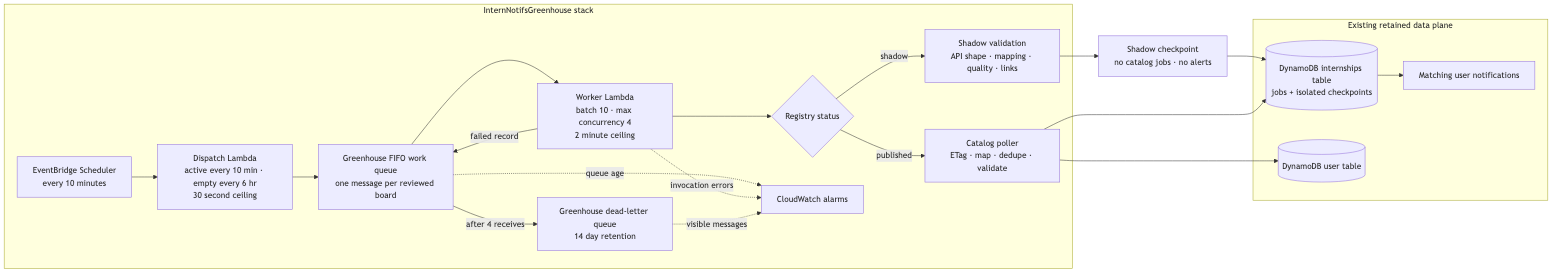
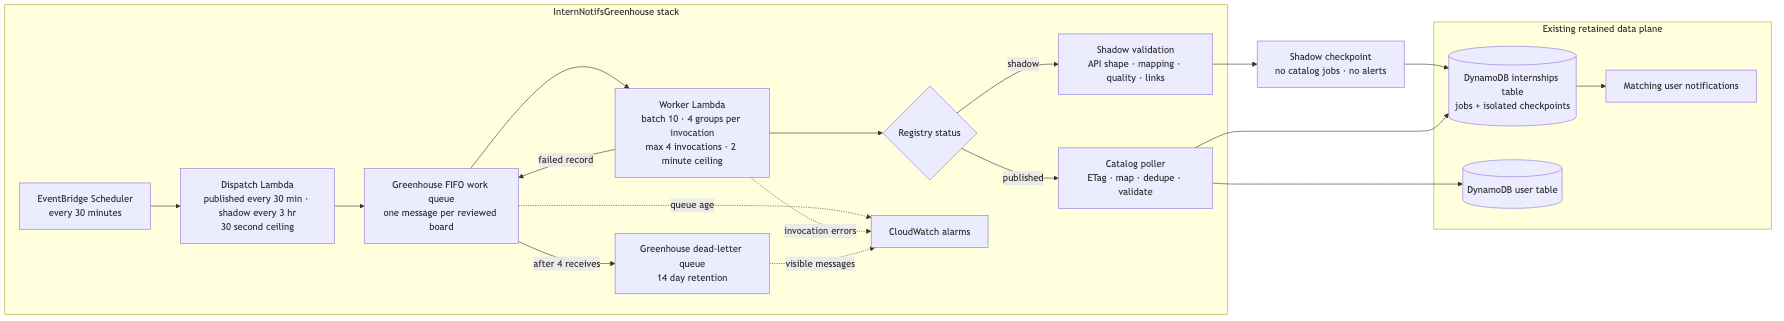
Increase source polling cadence

diff --git a/src/source-poll-cadence.ts b/src/source-poll-cadence.ts
@@ -2,12 +2,13 @@ import type { SourceCheckpoint, SourceHealth } from './types.js';
 
 /** The single cadence contract used by provider dispatchers and their stacks. */
 export const SOURCE_POLL_CADENCE = {
-  activeIntervalMs: 60 * 60 * 1000,
-  quietIntervalMs: 6 * 60 * 60 * 1000,
+  publishedIntervalMs: 30 * 60 * 1000,
+  shadowIntervalMs: 3 * 60 * 60 * 1000,
   schedules: {
-    greenhouse: 'cron(12 * * * ? *)',
-    lever: 'cron(22 * * * ? *)',
-    ashby: 'cron(32 * * * ? *)',
+    github: 'cron(2/10 * * * ? *)',
+    greenhouse: 'cron(12,42 * * * ? *)',
+    lever: 'cron(22,52 * * * ? *)',
+    ashby: 'cron(2,32 * * * ? *)',
   },
 } as const;
 
@@ -27,11 +28,11 @@ function timestamp(value: string | undefined): number | undefined {
 }
 
 /**
- * Quiet sources use the last completed attempt when available, falling back to
- * their last trusted snapshot. This makes a delayed or missed hourly run catch
- * up instead of requiring the scheduler to hit a particular modulo window.
+ * Shadow sources use the last completed attempt when available, falling back
+ * to their last trusted snapshot. This makes a delayed or missed scheduler run
+ * catch up instead of requiring an exact modulo window.
  */
-export function isQuietSourceDue(
+function isShadowSourceDue(
   sourceId: string,
   checkpoint: SourceCheckpoint | undefined,
   now: Date,
@@ -41,24 +42,25 @@ export function isQuietSourceDue(
     ?? timestamp(health?.lastSuccessAt)
     ?? timestamp(checkpoint?.lastSuccessAt);
   if (lastPollAt !== undefined) {
-    // Workers record completion slightly after the fixed-minute dispatcher
-    // invocation. Compare hourly scheduler windows so that normal processing
-    // latency does not defer the sixth invocation to the seventh hour.
-    const elapsedWindows = Math.floor(now.getTime() / SOURCE_POLL_CADENCE.activeIntervalMs)
-      - Math.floor(lastPollAt / SOURCE_POLL_CADENCE.activeIntervalMs);
-    return elapsedWindows >= SOURCE_POLL_CADENCE.quietIntervalMs / SOURCE_POLL_CADENCE.activeIntervalMs;
+    // Workers record completion slightly after the dispatcher invocation.
+    // Compare scheduler windows so normal processing latency does not defer a
+    // three-hour poll to the following half-hour run.
+    const elapsedWindows = Math.floor(now.getTime() / SOURCE_POLL_CADENCE.publishedIntervalMs)
+      - Math.floor(lastPollAt / SOURCE_POLL_CADENCE.publishedIntervalMs);
+    return elapsedWindows >= SOURCE_POLL_CADENCE.shadowIntervalMs / SOURCE_POLL_CADENCE.publishedIntervalMs;
   }
 
   // A source with state but no usable timestamp must recover immediately. Only
-  // brand-new quiet sources are spread across the first six hourly runs.
+  // brand-new shadow sources are spread across the first six dispatcher runs.
   if (checkpoint || health) return true;
-  const buckets = SOURCE_POLL_CADENCE.quietIntervalMs / SOURCE_POLL_CADENCE.activeIntervalMs;
-  const currentWindow = Math.floor(now.getTime() / SOURCE_POLL_CADENCE.activeIntervalMs);
+  const buckets = SOURCE_POLL_CADENCE.shadowIntervalMs / SOURCE_POLL_CADENCE.publishedIntervalMs;
+  const currentWindow = Math.floor(now.getTime() / SOURCE_POLL_CADENCE.publishedIntervalMs);
   return currentWindow % buckets === stableSourceBucket(sourceId, buckets);
 }
 
 export function isProviderSourceDue(
   sourceId: string,
+  sourceStatus: 'published' | 'shadow',
   checkpoint: SourceCheckpoint | undefined,
   now: Date,
   health?: SourceHealth,
@@ -66,6 +68,6 @@ export function isProviderSourceDue(
   if (health?.sourceStatus === 'paused') return false;
   const backoffUntil = timestamp(health?.backoffUntil);
   if (backoffUntil !== undefined && backoffUntil > now.getTime()) return false;
-  if (health?.pollTier !== 'quiet' && (!checkpoint || (checkpoint.lastRowCount ?? 0) > 0)) return true;
-  return isQuietSourceDue(sourceId, checkpoint, now, health);
+  if (sourceStatus === 'published') return true;
+  return isShadowSourceDue(sourceId, checkpoint, now, health);
 }

diff --git a/test/lever-queue.test.ts b/test/lever-queue.test.ts
@@ -54,21 +54,27 @@ describe('Lever queue dispatch', () => {
     });
   });
 
-  it('uses elapsed quiet cadence on the deployed hourly schedule and catches up after a missed run', () => {
+  it('polls shadow boards every three hours on the deployed half-hour schedule', () => {
     const firstScheduledAt = Date.parse('2026-07-30T00:22:00.000Z');
     const lastSuccessAt = new Date(firstScheduledAt + 60_000).toISOString();
     const checkpoint = { sourceId: `shadow-${shadowSource.id}`, successfulFetches: 1, lastRowCount: 0, lastSuccessAt };
-    const hourlyRuns = Array.from({ length: 7 }, (_, hour) => new Date(firstScheduledAt + hour * LEVER_POLL_INTERVAL_MS));
-    expect(hourlyRuns.slice(0, 6).every((now) => !isLeverSourceDue(shadowSource, checkpoint, now))).toBe(true);
-    expect(isLeverSourceDue(shadowSource, checkpoint, hourlyRuns[6]!)).toBe(true);
+    const scheduledRuns = Array.from({ length: 7 }, (_, window) => new Date(firstScheduledAt + window * LEVER_POLL_INTERVAL_MS));
+    expect(scheduledRuns.slice(0, 6).every((now) => !isLeverSourceDue(shadowSource, checkpoint, now))).toBe(true);
+    expect(isLeverSourceDue(shadowSource, checkpoint, scheduledRuns[6]!)).toBe(true);
     expect(isLeverSourceDue(shadowSource, checkpoint, new Date(firstScheduledAt + 10 * LEVER_POLL_INTERVAL_MS))).toBe(true);
-    expect(isLeverSourceDue(shadowSource, { ...checkpoint, lastRowCount: 1 }, hourlyRuns[0]!)).toBe(true);
+  });
+
+  it('polls published boards every half hour even when they are quiet', () => {
+    const published: ReviewedLeverSource = { ...shadowSource, status: 'published' };
+    const checkpoint = { sourceId: published.id, successfulFetches: 1, lastRowCount: 0, lastSuccessAt: scheduledAt };
+    expect(isLeverSourceDue(published, checkpoint, new Date(Date.parse(scheduledAt) + LEVER_POLL_INTERVAL_MS))).toBe(true);
   });
 
   it('honors durable pause controls and opens a freshness incident after a stale board resumes', async () => {
+    const published: ReviewedLeverSource = { ...shadowSource, status: 'published' };
     const store = new MemoryInternshipStore();
     await store.putCheckpoint({
-      sourceId: `shadow-${shadowSource.id}`,
+      sourceId: published.id,
       successfulFetches: 1,
       lastRowCount: 1,
       lastSuccessAt: '2026-07-30T11:00:00.000Z',
@@ -87,7 +93,7 @@ describe('Lever queue dispatch', () => {
     const commands: SendMessageBatchCommand[] = [];
     expect(await dispatchLeverBoards({
       queueUrl: 'https://sqs.us-east-1.amazonaws.com/123/lever.fifo',
-      sources: [shadowSource],
+      sources: [published],
       checkpointReader: store,
       now: () => new Date(scheduledAt),
       client: { async send(command) { commands.push(command); return {}; } },
@@ -101,7 +107,7 @@ describe('Lever queue dispatch', () => {
     });
     expect(await dispatchLeverBoards({
       queueUrl: 'https://sqs.us-east-1.amazonaws.com/123/lever.fifo',
-      sources: [shadowSource],
+      sources: [published],
       checkpointReader: store,
       now: () => new Date('2026-07-30T13:00:00.000Z'),
       client: { async send(command) { commands.push(command); return {}; } },

diff --git a/test/stack.test.ts b/test/stack.test.ts
@@ -38,7 +38,7 @@ describe('CDK stack', () => {
   it('enables a DST-aware morning digest schedule', () => {
     const app = new cdk.App(); const stack = new InternNotifsStack(app, 'Schedules', { githubRepository: 'owner/repo', emailAddress: 'me@example.com' });
     Template.fromStack(stack).hasResourceProperties('AWS::Scheduler::Schedule', {
-      ScheduleExpression: 'cron(2 * * * ? *)',
+      ScheduleExpression: SOURCE_POLL_CADENCE.schedules.github,
       ScheduleExpressionTimezone: 'UTC',
       State: 'ENABLED',
       FlexibleTimeWindow: { Mode: 'OFF' },
@@ -82,7 +82,7 @@ describe('CDK stack', () => {
     });
     template.resourceCountIs('AWS::CloudWatch::Alarm', 7);
   });
-  it('queues Greenhouse boards hourly with bounded worker concurrency', () => {
+  it('queues Greenhouse boards every half hour with bounded worker concurrency', () => {
     const app = new cdk.App(); const stack = new GreenhouseMonitoringStack(app, 'Greenhouse', { internshipsTableName: 'internships', usersTableName: 'users', emailAddress: 'me@example.com' }); const template = Template.fromStack(stack);
     template.resourceCountIs('AWS::SQS::Queue', 3);
     template.hasResourceProperties('AWS::Scheduler::Schedule', { ScheduleExpression: SOURCE_POLL_CADENCE.schedules.greenhouse, State: 'ENABLED' });
@@ -99,7 +99,7 @@ describe('CDK stack', () => {
     template.hasResourceProperties('AWS::Lambda::Function', { Timeout: 120 });
     expect(snapshotTemplate(template.toJSON())).toMatchSnapshot();
   });
-  it('queues Lever boards hourly with bounded worker concurrency', () => {
+  it('queues Lever boards every half hour with bounded worker concurrency', () => {
     const app = new cdk.App(); const stack = new LeverMonitoringStack(app, 'Lever', { internshipsTableName: 'internships', usersTableName: 'users' }); const template = Template.fromStack(stack);
     template.resourceCountIs('AWS::SQS::Queue', 3);
     template.hasResourceProperties('AWS::Scheduler::Schedule', { ScheduleExpression: SOURCE_POLL_CADENCE.schedules.lever, State: 'ENABLED' });
@@ -116,7 +116,7 @@ describe('CDK stack', () => {
     });
     expect(snapshotTemplate(template.toJSON())).toMatchSnapshot();
   });
-  it('queues Ashby boards on a staggered hourly schedule with bounded concurrency', () => {
+  it('queues Ashby boards on a staggered half-hour schedule with bounded concurrency', () => {
     const app = new cdk.App(); const stack = new AshbyMonitoringStack(app, 'Ashby', { internshipsTableName: 'internships', usersTableName: 'users' }); const template = Template.fromStack(stack);
     template.resourceCountIs('AWS::SQS::Queue', 3);
     template.hasResourceProperties('AWS::Scheduler::Schedule', { ScheduleExpression: SOURCE_POLL_CADENCE.schedules.ashby, State: 'ENABLED' });

diff --git a/infra/intern-notifs-stack.ts b/infra/intern-notifs-stack.ts
@@ -13,6 +13,7 @@ import * as ses from 'aws-cdk-lib/aws-ses';
 import * as s3 from 'aws-cdk-lib/aws-s3';
 import * as sqs from 'aws-cdk-lib/aws-sqs';
 import type { Construct } from 'constructs';
+import { SOURCE_POLL_CADENCE } from '../src/source-poll-cadence.js';
 
 export interface InternNotifsStackProps extends cdk.StackProps { githubRepository: string; githubOwnerId?: string; githubRepositoryId?: string; emailAddress: string; existingOidcProviderArn?: string; }
 export class InternNotifsStack extends cdk.Stack {
@@ -86,9 +87,9 @@ export class InternNotifsStack extends cdk.Stack {
     const schedulerRole = new iam.Role(this, 'SchedulerInvokeRole', { assumedBy: new iam.ServicePrincipal('scheduler.amazonaws.com') });
     notifier.grantInvoke(schedulerRole); deadLetterQueue.grantSendMessages(schedulerRole);
     const target = (command: 'poll' | 'digest' | 'audit-catalog-indexes', maximumRetryAttempts = 2): scheduler.CfnSchedule.TargetProperty => ({ arn: notifier.functionArn, roleArn: schedulerRole.roleArn, input: JSON.stringify({ command }), deadLetterConfig: { arn: deadLetterQueue.queueArn }, retryPolicy: { maximumEventAgeInSeconds: 3600, maximumRetryAttempts } });
-    // The next hourly poll is the safe retry boundary for this expensive task;
+    // The next ten-minute poll is the safe retry boundary for this task;
     // Scheduler retries previously tripled the cost of repeated timeouts.
-    new scheduler.CfnSchedule(this, 'PollSchedule', { flexibleTimeWindow: { mode: 'OFF' }, scheduleExpression: 'cron(2 * * * ? *)', scheduleExpressionTimezone: 'UTC', state: 'ENABLED', target: target('poll', 0) });
+    new scheduler.CfnSchedule(this, 'PollSchedule', { flexibleTimeWindow: { mode: 'OFF' }, scheduleExpression: SOURCE_POLL_CADENCE.schedules.github, scheduleExpressionTimezone: 'UTC', state: 'ENABLED', target: target('poll', 0) });
     new scheduler.CfnSchedule(this, 'CatalogIndexAuditSchedule', { flexibleTimeWindow: { mode: 'OFF' }, scheduleExpression: 'cron(42 8 * * ? *)', scheduleExpressionTimezone: 'UTC', state: 'ENABLED', target: target('audit-catalog-indexes') });
     // The poll Lambda publishes these as embedded metrics, so a source that
     // stops succeeding surfaces without anyone reading logs. Greenhouse boards

diff --git a/test/greenhouse-queue.test.ts b/test/greenhouse-queue.test.ts
@@ -54,15 +54,20 @@ describe('Greenhouse queue dispatch', () => {
     })).rejects.toThrow('throttled');
   });
 
-  it('uses elapsed quiet cadence on the deployed hourly schedule and catches up after a missed run', () => {
+  it('polls shadow boards every three hours on the deployed half-hour schedule', () => {
     const firstScheduledAt = Date.parse('2026-07-29T00:12:00.000Z');
     const lastSuccessAt = new Date(firstScheduledAt + 60_000).toISOString();
     const checkpoint = { sourceId: `shadow-${acmeSource.id}`, successfulFetches: 1, lastRowCount: 0, lastSuccessAt };
-    const hourlyRuns = Array.from({ length: 7 }, (_, hour) => new Date(firstScheduledAt + hour * GREENHOUSE_POLL_INTERVAL_MS));
-    expect(hourlyRuns.slice(0, 6).every((now) => !isGreenhouseSourceDue(acmeSource, checkpoint, now))).toBe(true);
-    expect(isGreenhouseSourceDue(acmeSource, checkpoint, hourlyRuns[6]!)).toBe(true);
+    const scheduledRuns = Array.from({ length: 7 }, (_, window) => new Date(firstScheduledAt + window * GREENHOUSE_POLL_INTERVAL_MS));
+    expect(scheduledRuns.slice(0, 6).every((now) => !isGreenhouseSourceDue(acmeSource, checkpoint, now))).toBe(true);
+    expect(isGreenhouseSourceDue(acmeSource, checkpoint, scheduledRuns[6]!)).toBe(true);
     expect(isGreenhouseSourceDue(acmeSource, checkpoint, new Date(firstScheduledAt + 10 * GREENHOUSE_POLL_INTERVAL_MS))).toBe(true);
-    expect(isGreenhouseSourceDue(acmeSource, { ...checkpoint, lastRowCount: 1 }, hourlyRuns[0]!)).toBe(true);
+  });
+
+  it('polls published boards every half hour even when they are quiet', () => {
+    const published: ReviewedGreenhouseSource = { ...acmeSource, status: 'published' };
+    const checkpoint = { sourceId: published.id, successfulFetches: 1, lastRowCount: 0, lastSuccessAt: scheduledAt };
+    expect(isGreenhouseSourceDue(published, checkpoint, new Date(Date.parse(scheduledAt) + GREENHOUSE_POLL_INTERVAL_MS))).toBe(true);
   });
 });
 

diff --git a/test/ashby-queue.test.ts b/test/ashby-queue.test.ts
@@ -34,15 +34,20 @@ describe('Ashby queue dispatch', () => {
     });
   });
 
-  it('uses elapsed quiet cadence on the deployed hourly schedule and catches up after a missed run', () => {
+  it('polls shadow boards every three hours on the deployed half-hour schedule', () => {
     const firstScheduledAt = Date.parse('2026-08-09T00:32:00.000Z');
     const lastSuccessAt = new Date(firstScheduledAt + 60_000).toISOString();
     const checkpoint = { sourceId: `shadow-${shadowSource.id}`, successfulFetches: 1, lastRowCount: 0, lastSuccessAt };
-    const hourlyRuns = Array.from({ length: 7 }, (_, hour) => new Date(firstScheduledAt + hour * ASHBY_POLL_INTERVAL_MS));
-    expect(hourlyRuns.slice(0, 6).every((now) => !isAshbySourceDue(shadowSource, checkpoint, now))).toBe(true);
-    expect(isAshbySourceDue(shadowSource, checkpoint, hourlyRuns[6]!)).toBe(true);
+    const scheduledRuns = Array.from({ length: 7 }, (_, window) => new Date(firstScheduledAt + window * ASHBY_POLL_INTERVAL_MS));
+    expect(scheduledRuns.slice(0, 6).every((now) => !isAshbySourceDue(shadowSource, checkpoint, now))).toBe(true);
+    expect(isAshbySourceDue(shadowSource, checkpoint, scheduledRuns[6]!)).toBe(true);
     expect(isAshbySourceDue(shadowSource, checkpoint, new Date(firstScheduledAt + 10 * ASHBY_POLL_INTERVAL_MS))).toBe(true);
-    expect(isAshbySourceDue(shadowSource, { ...checkpoint, lastRowCount: 1 }, hourlyRuns[0]!)).toBe(true);
+  });
+
+  it('polls published boards every half hour even when they are quiet', () => {
+    const published: ReviewedAshbySource = { ...shadowSource, status: 'published' };
+    const checkpoint = { sourceId: published.id, successfulFetches: 1, lastRowCount: 0, lastSuccessAt: scheduledAt };
+    expect(isAshbySourceDue(published, checkpoint, new Date(Date.parse(scheduledAt) + ASHBY_POLL_INTERVAL_MS))).toBe(true);
   });
 });
 

diff --git a/src/ashby-dispatch.ts b/src/ashby-dispatch.ts
@@ -6,8 +6,8 @@ import { isProviderSourceDue, SOURCE_POLL_CADENCE } from './source-poll-cadence.
 import type { SourceCheckpoint, SourceHealth } from './types.js';
 
 export const ASHBY_DISPATCH_BATCH_SIZE = 10;
-export const ASHBY_POLL_INTERVAL_MS = SOURCE_POLL_CADENCE.activeIntervalMs;
-export const ASHBY_INACTIVE_POLL_INTERVAL_MS = SOURCE_POLL_CADENCE.quietIntervalMs;
+export const ASHBY_POLL_INTERVAL_MS = SOURCE_POLL_CADENCE.publishedIntervalMs;
+export const ASHBY_SHADOW_POLL_INTERVAL_MS = SOURCE_POLL_CADENCE.shadowIntervalMs;
 
 export interface AshbyWorkMessage {
   version: 1;
@@ -63,7 +63,7 @@ export function isAshbySourceDue(
   now: Date,
   health?: SourceHealth,
 ): boolean {
-  return isProviderSourceDue(source.id, checkpoint, now, health);
+  return isProviderSourceDue(source.id, source.status, checkpoint, now, health);
 }
 
 function emitFreshness(source: ReviewedAshbySource, health: SourceHealth | undefined, checkpoint: SourceCheckpoint | undefined, now: Date) {
@@ -97,9 +97,9 @@ async function recordFreshnessIncident(
   reader: CheckpointReader,
   now: Date,
 ) {
-  // Quiet/empty boards intentionally run every six hours and are not held to
-  // the active hourly freshness objective.
-  if (health?.sourceStatus === 'paused' || health?.pollTier === 'quiet' || (checkpoint && (checkpoint.lastRowCount ?? 0) === 0)) return;
+  // Shadow boards intentionally run every three hours and are not held to the
+  // published-source freshness objective.
+  if (source.status === 'shadow' || health?.sourceStatus === 'paused') return;
   const freshnessMinutes = emitFreshness(source, health, checkpoint, now);
   if (!health || freshnessMinutes < 90 || !reader.putSourceHealth) return;
   const severity = 'high' as const;

diff --git a/src/lever-dispatch.ts b/src/lever-dispatch.ts
@@ -6,8 +6,8 @@ import { isProviderSourceDue, SOURCE_POLL_CADENCE } from './source-poll-cadence.
 import type { SourceCheckpoint, SourceHealth } from './types.js';
 
 export const LEVER_DISPATCH_BATCH_SIZE = 10;
-export const LEVER_POLL_INTERVAL_MS = SOURCE_POLL_CADENCE.activeIntervalMs;
-export const LEVER_INACTIVE_POLL_INTERVAL_MS = SOURCE_POLL_CADENCE.quietIntervalMs;
+export const LEVER_POLL_INTERVAL_MS = SOURCE_POLL_CADENCE.publishedIntervalMs;
+export const LEVER_SHADOW_POLL_INTERVAL_MS = SOURCE_POLL_CADENCE.shadowIntervalMs;
 
 export interface LeverWorkMessage {
   version: 1;
@@ -64,7 +64,7 @@ export function isLeverSourceDue(
   now: Date,
   health?: SourceHealth,
 ): boolean {
-  return isProviderSourceDue(source.id, checkpoint, now, health);
+  return isProviderSourceDue(source.id, source.status, checkpoint, now, health);
 }
 
 function emitFreshness(source: ReviewedLeverSource, health: SourceHealth | undefined, checkpoint: SourceCheckpoint | undefined, now: Date) {
@@ -98,9 +98,9 @@ async function recordFreshnessIncident(
   reader: CheckpointReader,
   now: Date,
 ) {
-  // Quiet/empty boards intentionally run every six hours and are not held to
-  // the active hourly freshness objective.
-  if (health?.sourceStatus === 'paused' || health?.pollTier === 'quiet' || (checkpoint && (checkpoint.lastRowCount ?? 0) === 0)) return;
+  // Shadow boards intentionally run every three hours and are not held to the
+  // published-source freshness objective.
+  if (source.status === 'shadow' || health?.sourceStatus === 'paused') return;
   const freshnessMinutes = emitFreshness(source, health, checkpoint, now);
   if (!health || freshnessMinutes < 90 || !reader.putSourceHealth) return;
   const severity = 'high' as const;

diff --git a/src/greenhouse-dispatch.ts b/src/greenhouse-dispatch.ts
@@ -5,8 +5,8 @@ import { isProviderSourceDue, SOURCE_POLL_CADENCE } from './source-poll-cadence.
 import type { SourceCheckpoint, SourceHealth } from './types.js';
 
 export const GREENHOUSE_DISPATCH_BATCH_SIZE = 10;
-export const GREENHOUSE_POLL_INTERVAL_MS = SOURCE_POLL_CADENCE.activeIntervalMs;
-export const GREENHOUSE_INACTIVE_POLL_INTERVAL_MS = SOURCE_POLL_CADENCE.quietIntervalMs;
+export const GREENHOUSE_POLL_INTERVAL_MS = SOURCE_POLL_CADENCE.publishedIntervalMs;
+export const GREENHOUSE_SHADOW_POLL_INTERVAL_MS = SOURCE_POLL_CADENCE.shadowIntervalMs;
 
 export interface GreenhouseWorkMessage {
   version: 1;
@@ -53,7 +53,7 @@ export function isGreenhouseSourceDue(
   now: Date,
   health?: SourceHealth,
 ): boolean {
-  return isProviderSourceDue(source.id, checkpoint, now, health);
+  return isProviderSourceDue(source.id, source.status, checkpoint, now, health);
 }
 
 async function dueSources(

diff --git a/test/source-operations.test.ts b/test/source-operations.test.ts
@@ -100,7 +100,7 @@ describe('shared source operations', () => {
     expect(body.checklist).toMatchObject({ period: '2026-07', completed: 0, total: 8, complete: false });
   });
 
-  it('uses the quiet cadence when classifying source freshness', async () => {
+  it('retains the quiet classification for published source health', async () => {
     const store = new MemoryInternshipStore();
     const source = reviewedGreenhouseSources.find((candidate) => candidate.status === 'published')!;
     await store.putCheckpoint({

diff --git a/docs/product-roadmap.md b/docs/product-roadmap.md
@@ -45,12 +45,12 @@
 - [x] Audit 25 representative employers through the GitHub Markdown ingestion and poller pipeline.
 - [x] Add a provider-neutral company-coverage snapshot, public search API, and responsive web disclosure seeded from live internship evidence and reviewed ATS registries.
 - [x] Implement the Greenhouse source adapter, admission gates, deterministic fixtures, and live contract tests.
-- [x] Add the SQS-backed Greenhouse shadow/published runner with hourly active polling, adaptive inactive polling, bounded concurrency, isolated retries, alarms, and a quiet promotion baseline.
+- [x] Add the SQS-backed Greenhouse shadow/published runner with thirty-minute published polling, three-hour shadow polling, bounded per-board concurrency, isolated retries, alarms, and a quiet promotion baseline.
 - [x] Publish the 166-board API-responsive Greenhouse inventory with current board identities, observed host allowlists, per-source quiet baselines, and ownership-review status.
 - [x] Add a private operations dashboard for all official Greenhouse sources with per-run volume, withheld rows, redacted diagnostics, queue/DLQ and alarm status, plus deterministic quarantine and recovery.
 - [ ] Add the Greenhouse batch re-probe and post-publication ownership-review workflow described in [`greenhouse/registry-expansion-plan.md`](greenhouse/registry-expansion-plan.md).
 - [x] Implement Lever source adapter, ETag checkpoints, technical-role mapping, and deterministic fixtures for Palantir, PlusAI, Hermeus, and Xsolla.
-- [x] Add the SQS-backed Lever shadow/published runner with hourly active polling, adaptive inactive polling, bounded concurrency, isolated retries, alarms, and quiet promotion.
+- [x] Add the SQS-backed Lever shadow/published runner with thirty-minute published polling, three-hour shadow polling, bounded per-board concurrency, isolated retries, alarms, and quiet promotion.
 - [x] Standardize Greenhouse, Lever, general Markdown, and Quant Markdown behind neutral complete snapshots, shared processing, stable source occurrences, two-success closure reconciliation, deterministic outbox IDs, and durable source health.
 - [x] Complete Lever monitoring with shadow and published health, regional metrics, freshness incidents, bounded backoff, shared operator controls, dashboards, and recovery runbooks.
 - [x] Add Ashby URL-derived discovery, metadata-only public probing, first-party ownership evidence, deterministic admission/re-verification gates, weekly candidate-ledger upload, and 35 reviewed shadow boards.

diff --git a/docs/pipeline-observability-plan.md b/docs/pipeline-observability-plan.md
@@ -112,24 +112,21 @@ store so a pause or cadence change does not require a release.
 
 ### Priority policy
 
-Every top-tier employer with a confirmed, enabled provider board starts on the
-`priority` tier. It is due every five minutes; the source scheduler must keep
-its successful-fetch freshness at or below 15 minutes except during an active
-provider backoff. The top-tier list identifies employers, not board IDs: an
-employer without a confirmed Greenhouse (or other provider) board produces an
-`unknown_board` setup item and makes no speculative network calls.
+Every confirmed, enabled published provider board uses the same thirty-minute
+discovery objective. Active and quiet describe current listing state without
+changing that cadence. The top-tier list identifies employers, not board IDs:
+an employer without a confirmed provider board produces an `unknown_board`
+setup item and makes no speculative network calls.
 
-| Tier | Eligible source | Target schedule | Freshness target |
+| Status | Eligible source | Target schedule | Freshness target |
 | --- | --- | --- | --- |
-| `priority` | Every confirmed top-tier employer board | Every 5 minutes | At most 15 minutes |
-| `normal` | Other active, tracked employer boards | Every 1–4 hours | Tier interval + one scheduler cycle |
-| `quiet` | Stable, repeatedly empty boards | Daily | 36 hours |
+| `published` | Every reviewed catalog board | Every 30 minutes | At most 90 minutes |
+| `shadow` | Reviewed pre-publication board | Every 3 hours | Shadow interval + one scheduler cycle |
 | `paused` | Invalid, disabled, or operator-paused board | No fetch | Not applicable |
 
-The source scheduler must reserve enough worker capacity for all due priority
-sources before it begins normal or quiet work. A priority source may back off
-only for documented temporary provider failures; an invalid board identifier
-requires repair rather than repeated five-minute requests.
+Provider backoff may defer either scheduled status only for documented
+temporary failures; an invalid board identifier requires repair rather than
+repeated requests.
 
 ```ts
 {
